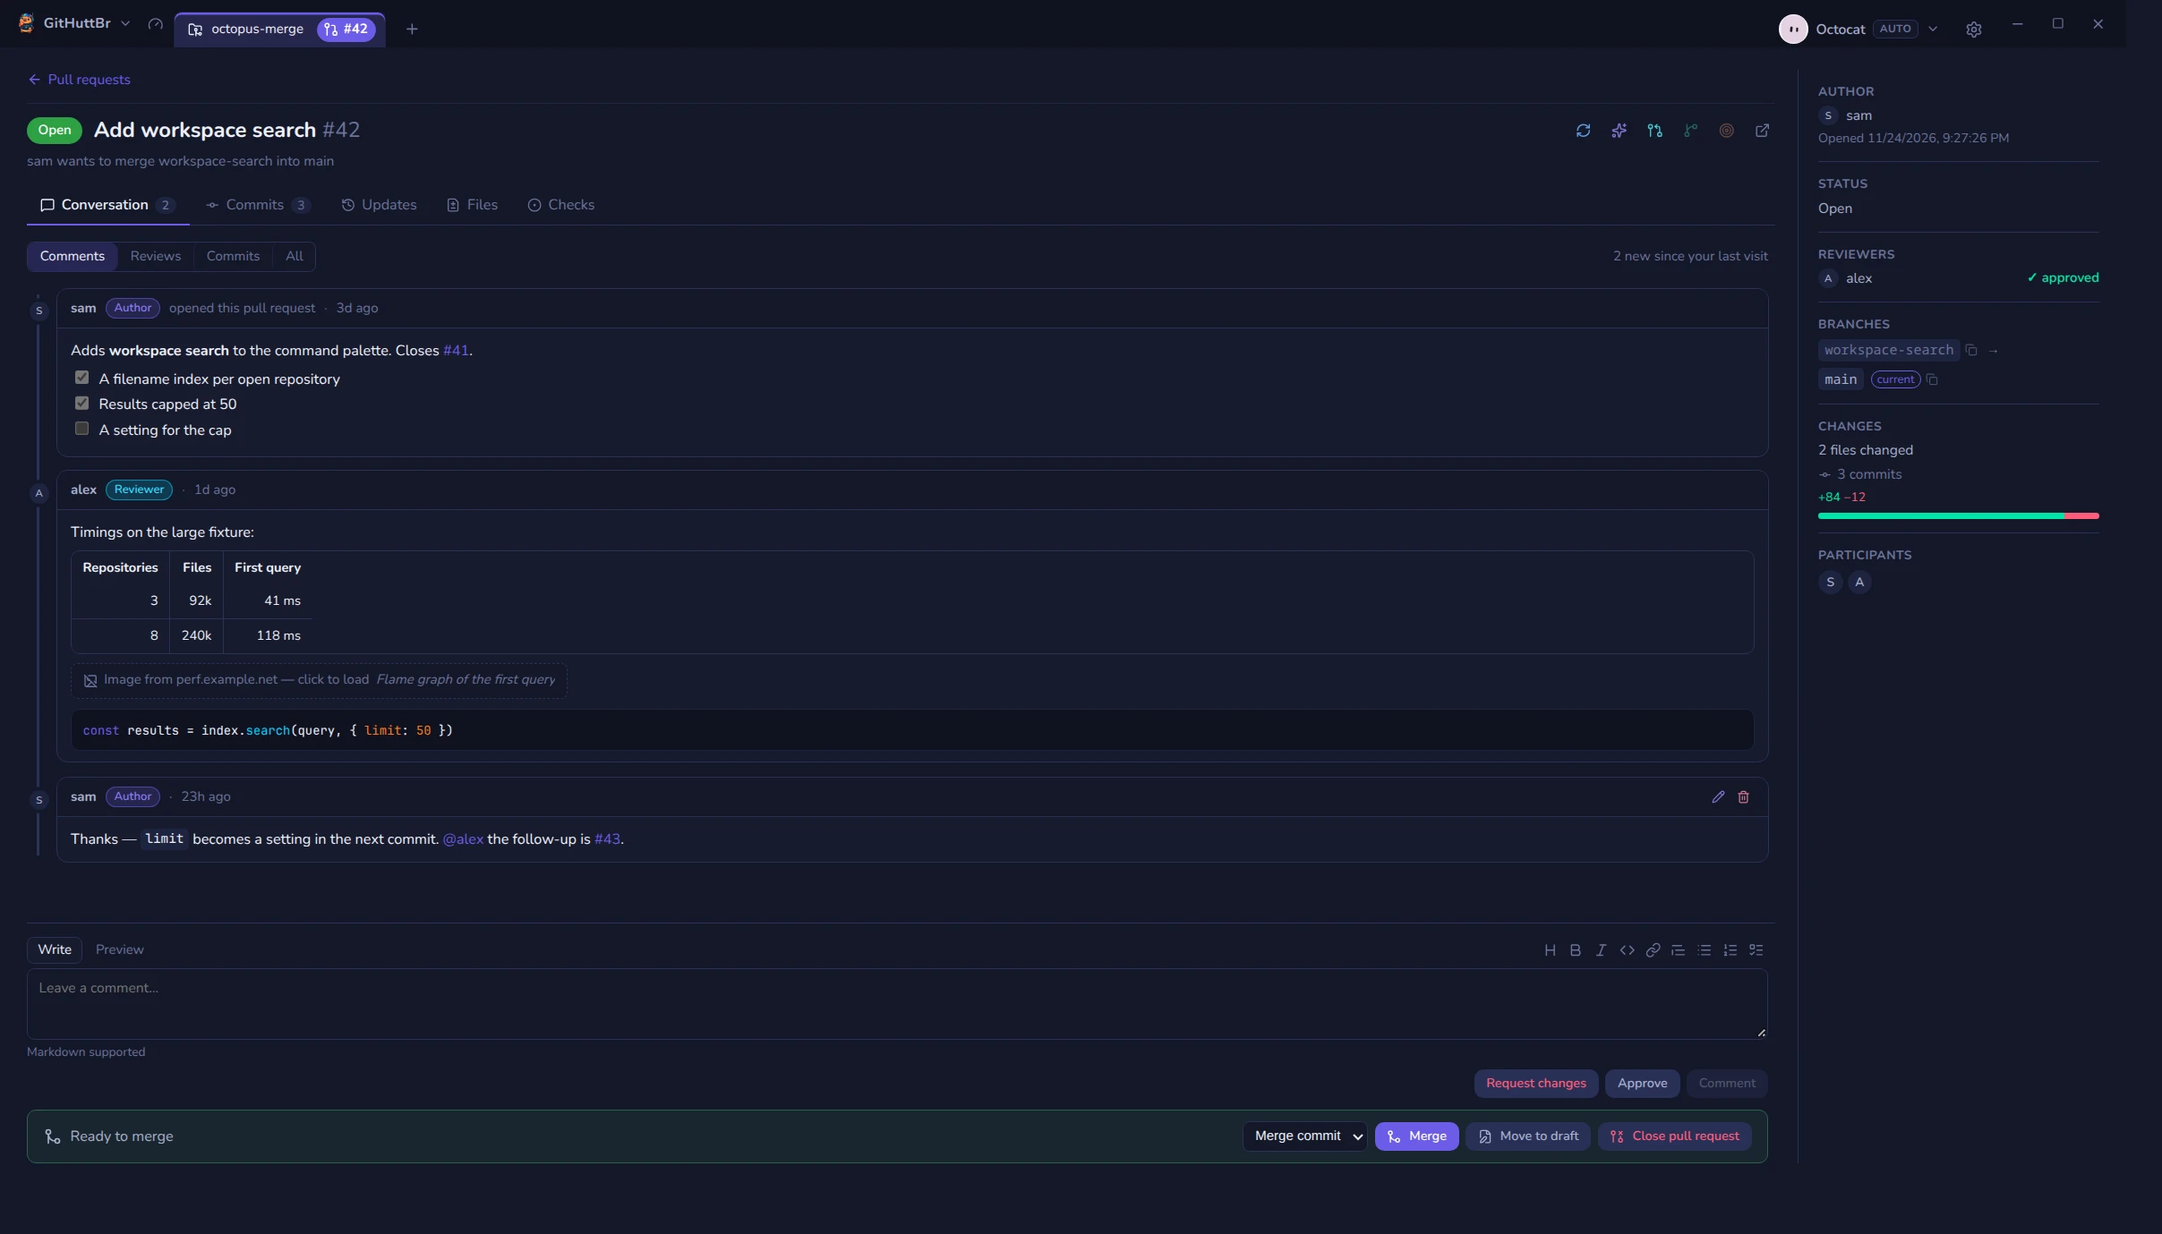
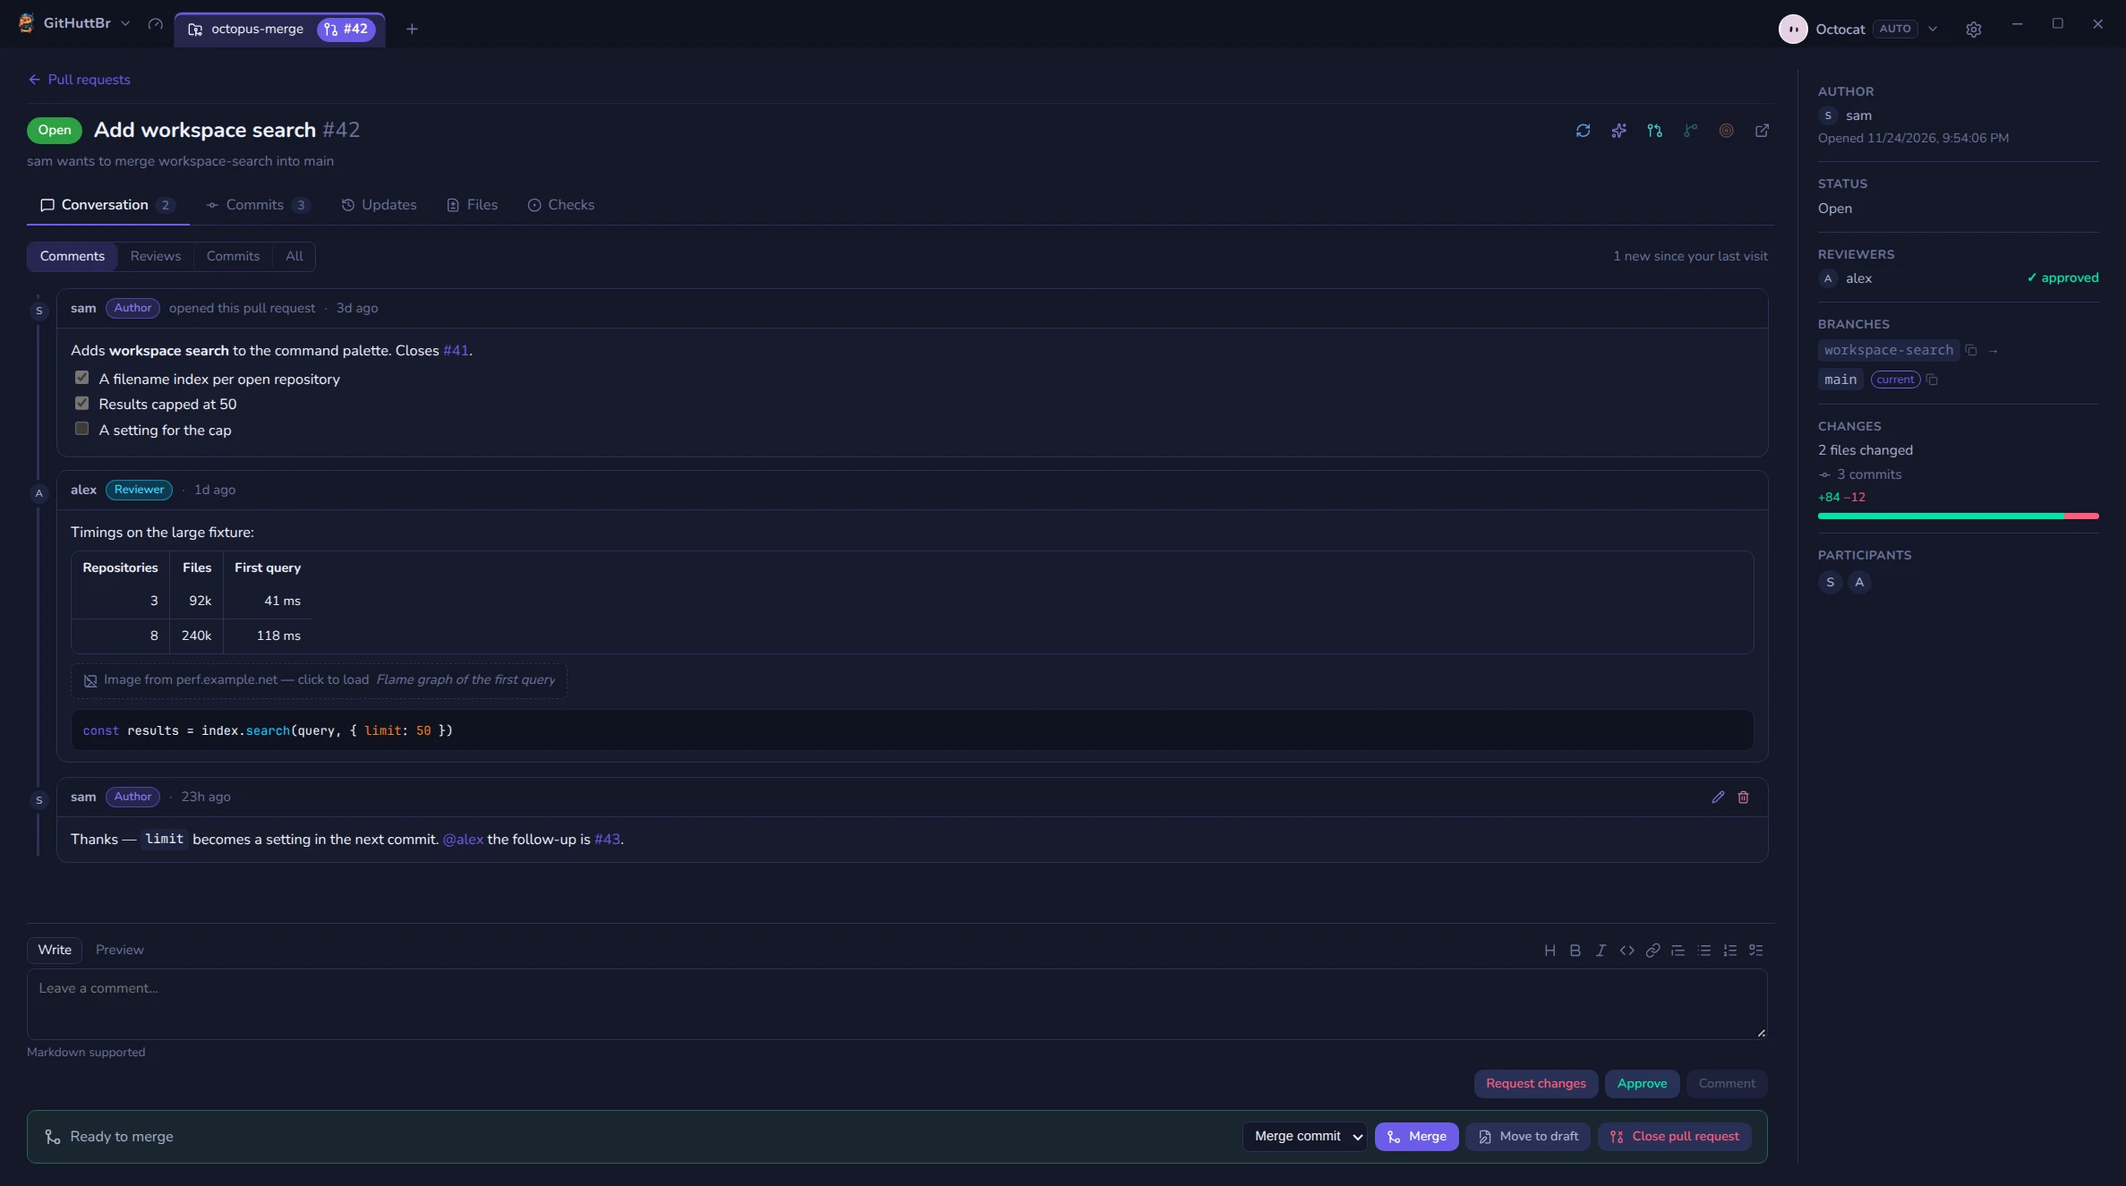
fix(pr): visit kept on quit, own entries not new, green approve, way back
- The last visit of a PR open when the app quits or reloads is recorded: the
  page records it on beforeunload, the settings store sends a pending save at
  once as the page goes, and main holds the quit (3s at most) for the write.
- "N new since your last visit" leaves out what you wrote and does not place
  the line by it; an older thread with a reply from someone else since counts
  as new, and keeps its place on the timeline.
- The composer's Approve is in green words, as Request changes is in red.
- "← Pull requests" from a PR hands back the list's `from: 'mission'`, so
  "← Back to Mission control" stays.

diff --git a/src/renderer/src/lib/prTimeline.ts b/src/renderer/src/lib/prTimeline.ts
@@ -1,4 +1,5 @@
 import type { PrComment, PrCommit, PrDetail, PrReview, PrReviewThread } from '../../../shared/types'
+import { isWrittenByViewer, type CommentViewer } from './commentEdit'
 
 /**
  * The Conversation tab as one timeline: what goes on it, in which order, and
@@ -98,6 +99,57 @@ export function buildPrTimeline(
   // Array.prototype.sort is stable: equal times keep the order above.
   items.sort((a, b) => a.at - b.at)
   return [{ kind: 'description', id: 'description', at: parseTime(pr.createdAt) }, ...items]
+}
+
+/** Who wrote a timeline entry; a thread is its first comment's, a push its committer's. */
+function getEntryAuthor(it: PrTimelineItem, prAuthor: string): { author: string; authorId?: string; authorUniqueName?: string } {
+  switch (it.kind) {
+    case 'comment':
+      return it.comment
+    case 'thread':
+      return it.thread.comments[0] ?? { author: '' }
+    case 'review':
+      return it.review
+    case 'push':
+      return { author: it.author }
+    default:
+      return { author: prAuthor }
+  }
+}
+
+/**
+ * "New since your last visit" on the Conversation tab, over the entries shown.
+ *
+ * - `seen` / `fresh`: where the divider goes — before the first entry after the
+ *   visit that someone else wrote. Entries keep their places: your own reply
+ *   after it stays under the divider, it just does not move it.
+ * - `freshCount`: what the summary says — entries after the visit not written
+ *   by you, plus threads that began earlier but got a reply from someone else
+ *   since. Such a thread stays where it began; only the count sees the reply.
+ *
+ * No last visit (a first look) is "nothing new", as in lib/prVisits.ts.
+ */
+export function splitPrTimelineByVisit(
+  items: readonly PrTimelineItem[],
+  lastVisit: number | null,
+  who: CommentViewer & { author: string }
+): { seen: PrTimelineItem[]; fresh: PrTimelineItem[]; freshCount: number } {
+  if (lastVisit === null) return { seen: [...items], fresh: [], freshCount: 0 }
+  const others = (entry: { author: string; authorId?: string; authorUniqueName?: string }): boolean =>
+    !isWrittenByViewer(entry, who)
+  const isNewByOthers = (it: PrTimelineItem): boolean => it.at > lastVisit && others(getEntryAuthor(it, who.author))
+  const firstFresh = items.findIndex(isNewByOthers)
+  const cut = firstFresh < 0 ? items.length : firstFresh
+  let freshCount = 0
+  for (const it of items) {
+    if (isNewByOthers(it)) freshCount++
+    else if (
+      it.kind === 'thread' &&
+      it.thread.comments.some((c) => parseTime(c.createdAt) > lastVisit && others(c))
+    )
+      freshCount++
+  }
+  return { seen: items.slice(0, cut), fresh: items.slice(cut), freshCount }
 }
 
 /** A thread the host says is still open. Unknown (no `resolved`) is not open. */

diff --git a/test/prTimeline.test.ts b/test/prTimeline.test.ts
@@ -12,7 +12,8 @@ import {
   filterPrTimeline,
   getHunkLines,
   getPrPersonRoles,
-  groupPrCommitPushes
+  groupPrCommitPushes,
+  splitPrTimelineByVisit
 } from '../src/renderer/src/lib/prTimeline'
 import {
   getLastVisit,
@@ -181,6 +182,43 @@ describe('prVisits', () => {
     const items = [{ at: 1 }, { at: 5 }, { at: 9 }]
     expect(splitByLastVisit(items, 5)).toEqual({ seen: [{ at: 1 }, { at: 5 }], fresh: [{ at: 9 }] })
     expect(splitByLastVisit(items, null)).toEqual({ seen: items, fresh: [] })
+  })
+
+  it('leaves your own entries out of "new", and counts an old thread with a new reply', () => {
+    const visit = Date.parse('2026-11-05T00:00:00Z')
+    const reply = (id: number, author: string, at: string): PrReviewThread['comments'][number] => ({
+      id, author, body: 'ok', createdAt: at
+    })
+    const oldThread: PrReviewThread = {
+      ...thread(7, '2026-11-02T10:00:00Z'),
+      comments: [reply(7, 'kalani', '2026-11-02T10:00:00Z'), reply(8, 'kalani', '2026-11-06T10:00:00Z')]
+    }
+    // Answered since, but only by you: nothing new.
+    const mineAnswered: PrReviewThread = {
+      ...thread(9, '2026-11-03T10:00:00Z'),
+      comments: [reply(9, 'kalani', '2026-11-03T10:00:00Z'), reply(10, 'me', '2026-11-06T11:00:00Z')]
+    }
+    const detail = pr({
+      viewer: 'me',
+      comments: [
+        { author: 'me', body: 'mine, after the visit', createdAt: '2026-11-06T09:00:00Z' },
+        { author: 'alex', body: 'theirs, after', createdAt: '2026-11-06T12:00:00Z' }
+      ],
+      reviewThreads: [oldThread, mineAnswered]
+    })
+    const items = buildPrTimeline(detail, null)
+    const split = splitPrTimelineByVisit(items, visit, detail)
+    // alex's comment, and the old thread for kalani's reply — not your own comment.
+    expect(split.freshCount).toBe(2)
+    // The divider sits before alex's comment, not before yours; your comment stays above it.
+    expect(split.fresh.map((it) => it.id)).toEqual([items[items.length - 1].id])
+    expect(split.seen.some((it) => it.kind === 'comment' && it.comment.author === 'me')).toBe(true)
+    // The old thread keeps its place, where it began.
+    expect(split.seen.map((it) => it.id)).toContain('t:7')
+    // A first visit: nothing new.
+    expect(splitPrTimelineByVisit(items, null, detail)).toMatchObject({ fresh: [], freshCount: 0 })
+    // Without knowing who you are, your comment counts like anyone's.
+    expect(splitPrTimelineByVisit(items, visit, { ...detail, viewer: null }).freshCount).toBe(4)
   })
 
   it('keeps only the most recent visits and ignores unreadable ones', () => {

diff --git a/test/prListMissionBack.test.ts b/test/prListMissionBack.test.ts
@@ -1,0 +1,31 @@
+import { beforeAll, describe, expect, it, vi } from 'vitest'
+
+vi.mock('../src/renderer/src/infrastructure/api', () => ({
+  settingsApi: { set: vi.fn(async () => undefined) },
+  reposApi: {},
+  hostingApi: {}
+}))
+
+import { useSettingsStore } from '../src/renderer/src/stores/settings'
+import { openPrFromList } from '../src/renderer/src/stores/prList'
+
+// The pull requests list opened from Mission Control offers the way back there;
+// going into one of its PRs and back with "← Pull requests" must not lose it.
+describe('a PR opened from a list that came from Mission Control', () => {
+  beforeAll(() => useSettingsStore.setState({ loaded: true }))
+
+  it('carries where the list came from, and keeps it on the PR pages it walks to', () => {
+    useSettingsStore.getState().update((s) => ({ ...s, workspaces: [], tabs: [], activeTabId: null }))
+    const entry = { number: 7, title: 'Add search', remoteUrl: 'https://example.com/team/app.git' }
+    const nav = { entries: [entry], filters: {} as never, tab: 'open' as never }
+    openPrFromList('/repos/app', entry, nav, 'mission')
+    const pages = useSettingsStore.getState().settings.tabs.flatMap((t) => (t.kind === 'page' ? [t.page] : []))
+    expect(pages.find((p) => p.type === 'pr')).toMatchObject({ number: 7, via: 'list', listFrom: 'mission' })
+
+    // Opened from the plain list: no flag to hand back.
+    openPrFromList('/repos/app', { ...entry, number: 8 }, nav)
+    const after = useSettingsStore.getState().settings.tabs.flatMap((t) => (t.kind === 'page' ? [t.page] : []))
+    const pr8 = after.find((p) => p.type === 'pr' && p.number === 8)
+    expect(pr8 && 'listFrom' in pr8).toBe(false)
+  })
+})

diff --git a/src/renderer/src/components/PrConversationTimeline.tsx b/src/renderer/src/components/PrConversationTimeline.tsx
@@ -4,7 +4,6 @@ import type { PrComment, PrCommit, PrDetail, PrReview, PrReviewThread } from '..
 import { HostUserAvatar as Avatar } from './HostUserAvatar'
 import { useT, interp, type TranslationKey } from '../i18n'
 import { timeAgo } from '../lib/timeAgo'
-import { splitByLastVisit } from '../lib/prVisits'
 import type { ReviewerState } from '../lib/prSummary'
 import {
   buildPrTimeline,
@@ -12,6 +11,7 @@ import {
   filterPrTimeline,
   getHunkLines,
   getPrPersonRoles,
+  splitPrTimelineByVisit,
   type PrTimelineFilter,
   type PrTimelineItem
 } from '../lib/prTimeline'
@@ -105,9 +105,10 @@ export function PrConversationTimeline({
   const [expanded, setExpanded] = useState<Set<string>>(() => new Set())
 
   const items = useMemo(() => buildPrTimeline(pr, commits), [pr, commits])
-  const freshCount = useMemo(() => splitByLastVisit(items, lastVisit).fresh.length, [items, lastVisit])
+  // What you wrote yourself is never "new" to you (lib/prTimeline.ts).
+  const freshCount = useMemo(() => splitPrTimelineByVisit(items, lastVisit, pr).freshCount, [items, lastVisit, pr])
   const shown = useMemo(() => filterPrTimeline(items, filter, openOnly), [items, filter, openOnly])
-  const { seen, fresh } = useMemo(() => splitByLastVisit(shown, lastVisit), [shown, lastVisit])
+  const { seen, fresh } = useMemo(() => splitPrTimelineByVisit(shown, lastVisit, pr), [shown, lastVisit, pr])
   const openThreads = countOpenThreads(pr.reviewThreads)
 
   const name = (login: string): ReactNode => {

diff --git a/test/settingsStoreSaves.test.ts b/test/settingsStoreSaves.test.ts
@@ -30,7 +30,7 @@ vi.mock('../src/renderer/src/infrastructure/api', () => ({
   }
 }))
 
-import { useSettingsStore } from '../src/renderer/src/stores/settings'
+import { sendPendingSettingsSave, useSettingsStore } from '../src/renderer/src/stores/settings'
 import { useUIStore } from '../src/renderer/src/stores/ui'
 import { SettingsSaveRefused } from '../src/renderer/src/infrastructure/api'
 
@@ -56,6 +56,21 @@ describe('the settings store', () => {
     expect(saves()).toHaveLength(1)
     expect(saves()[0].settings).toMatchObject({ language: 'de', confirmForcePush: false })
     expect(saves()[0].generation).toBe(gen)
+  })
+
+  it('a page going away sends the pending save at once, not after the debounce', async () => {
+    useSettingsStore.getState().update((s) => ({ ...s, prVisits: { 'https://example.com/o/r#7': 1234 } }))
+    expect(saves()).toHaveLength(0)
+    // Called from beforeunload: no timer gets to fire after it.
+    sendPendingSettingsSave()
+    expect(saves()).toHaveLength(1)
+    expect(saves()[0].settings?.prVisits).toEqual({ 'https://example.com/o/r#7': 1234 })
+    // The debounce is spent: nothing goes out twice.
+    await vi.advanceTimersByTimeAsync(300)
+    expect(saves()).toHaveLength(1)
+    // Nothing pending, nothing sent.
+    sendPendingSettingsSave()
+    expect(saves()).toHaveLength(1)
   })
 
   it('a pending save goes out before an unlock, never after it with the older state', async () => {

diff --git a/src/main/index.ts b/src/main/index.ts
@@ -12,7 +12,7 @@ import type { AppRelease } from '../shared/types'
 import { getUrlScheme, isAppNavigation } from '../shared/externalUrl'
 import { openExternalUrl } from './externalLinks'
 import { abortAllClones, registerGitHandlers, repointGlobalLegacyTextconvs } from './git'
-import { readSettings, registerSettingsHandlers } from './settings'
+import { readSettings, registerSettingsHandlers, waitForSettingsWrites } from './settings'
 import { registerAiHandlers } from './ai'
 import { registerRepoChatHandlers } from './repoChat'
 import { registerWikiHandlers } from './wiki'
@@ -573,6 +573,18 @@ app.whenReady().then(() => {
 app.on('before-quit', () => {
   void releaseAllWaits()
   abortAllClones()
+})
+
+// A closing window sends its last settings save as it goes (a pull request's
+// visit): hold the quit until that write lands, a few seconds at most. The
+// tick first lets the message that left with the window reach its handler.
+let settingsWritten = false
+app.on('will-quit', (e) => {
+  if (settingsWritten) return
+  e.preventDefault()
+  settingsWritten = true
+  const writes = new Promise<void>((done) => setImmediate(done)).then(() => waitForSettingsWrites())
+  void Promise.race([writes, new Promise<void>((done) => setTimeout(done, 3000))]).finally(() => app.quit())
 })
 
 app.on('window-all-closed', () => {

diff --git a/src/renderer/src/components/PrDetailPage.tsx b/src/renderer/src/components/PrDetailPage.tsx
@@ -48,7 +48,7 @@ import { PrUpdatesSection, usePrUpdates, usePrUpdatesSeen } from './PrUpdatesSec
 import { PrUpdateDiffBanner, usePrUpdateDiff, type UpdateDiffView } from './PrUpdateDiff'
 import { forgetFinished } from '../stores/prList'
 import { useUIStore } from '../stores/ui'
-import { useSettingsStore } from '../stores/settings'
+import { sendPendingSettingsSave, useSettingsStore } from '../stores/settings'
 import { repoActions, useRepoStore } from '../stores/repo'
 import { remoteForPrUrl } from '../lib/prBranchGo'
 import { remoteWebUrl, type AutolinkOptions } from '../lib/autolink'
@@ -621,7 +621,17 @@ export function PrDetailPage({ page }: { page: PrPage }): React.JSX.Element {
   const visited = useRef(false)
   useEffect(() => {
     visited.current = false
+    // Quitting or reloading with the page open unmounts nothing: the visit is
+    // recorded as the window goes too, and sent at once (stores/settings.ts).
+    const leave = (): void => {
+      if (!visited.current) return
+      visited.current = false
+      recordVisit(visitKey, Date.now())
+      sendPendingSettingsSave()
+    }
+    window.addEventListener('beforeunload', leave)
     return () => {
+      window.removeEventListener('beforeunload', leave)
       if (visited.current) recordVisit(visitKey, Date.now())
     }
   }, [visitKey])

diff --git a/src/renderer/src/stores/prList.ts b/src/renderer/src/stores/prList.ts
@@ -106,10 +106,19 @@ export function currentPrNav(page: PrPage): ReturnType<typeof resolvePrNav> {
 }
 
 /** Open a PR from the list page: the walk is remembered, and the PR replaces
- *  the one the list opened before rather than adding an icon per click. */
-export function openPrFromList(repoPath: string, entry: PrNavEntry, nav: PrListNav): void {
+ *  the one the list opened before rather than adding an icon per click.
+ *  `listFrom` is where the list itself came from, handed back on the way back. */
+export function openPrFromList(repoPath: string, entry: PrNavEntry, nav: PrListNav, listFrom?: 'mission'): void {
   usePrListStore.getState().rememberNav(repoPath, nav)
-  const page: PrPage = { type: 'pr', repoPath, remoteUrl: entry.remoteUrl, number: entry.number, title: entry.title, via: 'list' }
+  const page: PrPage = {
+    type: 'pr',
+    repoPath,
+    remoteUrl: entry.remoteUrl,
+    number: entry.number,
+    title: entry.title,
+    via: 'list',
+    ...(listFrom ? { listFrom } : {})
+  }
   const settings = useSettingsStore.getState()
   const previous = findListPrPage(repoPath)
   if (previous) settings.replaceOpenPage(previous, page)

diff --git a/src/renderer/src/stores/settings.ts b/src/renderer/src/stores/settings.ts
@@ -292,6 +292,23 @@ async function flushPending(): Promise<void> {
   await inFlight
 }
 
+/**
+ * Sends a pending debounced save at once, without waiting for it: what a page
+ * that is going away can still do. Quitting or reloading inside the 250ms lost
+ * the last change — a pull request's visit, recorded as its page is left. The
+ * IPC message leaves before the page is torn down, and main waits for the
+ * write before it quits (`waitForSettingsWrites`).
+ */
+export function sendPendingSettingsSave(): void {
+  if (!saveTimer) return
+  void flushPending()
+}
+
+// Guarded on the function: tests stub a `window` without it.
+if (typeof window !== 'undefined' && typeof window.addEventListener === 'function') {
+  window.addEventListener('beforeunload', sendPendingSettingsSave)
+}
+
 /** Mirror the live `tabs`/`activeTabId` into the active workspace record so a
  *  workspace switch (or the next app launch) restores the exact tab strip.
  *  Runs on every settings mutation — cheap, and keeps the two in lockstep

diff --git a/src/renderer/src/lib/commentEdit.ts b/src/renderer/src/lib/commentEdit.ts
@@ -39,7 +39,18 @@ export function isMyComment(
   comment: { author: string; authorId?: string; authorUniqueName?: string; handle?: PrCommentHandle },
   who: CommentViewer | null | undefined
 ): boolean {
-  if (!comment.handle || !who) return false
+  return !!comment.handle && isWrittenByViewer(comment, who)
+}
+
+/**
+ * The viewer wrote this entry — isMyComment's matching without the handle it
+ * needs to offer actions: what "N new since your last visit" leaves out.
+ */
+export function isWrittenByViewer(
+  comment: { author: string; authorId?: string; authorUniqueName?: string },
+  who: CommentViewer | null | undefined
+): boolean {
+  if (!who) return false
   // A blank name names nobody: only a real one on both sides may match.
   const author = comment.authorUniqueName?.trim()
   const viewer = who.viewerUniqueName?.trim()

diff --git a/src/shared/types.ts b/src/shared/types.ts
@@ -4021,7 +4021,10 @@ export type PageContent =
   // page has loaded the real one.
   // `via: 'list'` — opened from the pull requests page, so its ‹ › walk the
   // filtered list it came from rather than the repository's open PRs.
-  | { type: 'pr'; repoPath: string; remoteUrl: string; number: number; title: string; via?: 'list' }
+  // `listFrom: 'mission'` — that list was opened from Mission Control: its
+  // "← Pull requests" takes the flag back, so the list keeps its way back there.
+  | { type: 'pr'; repoPath: string; remoteUrl: string; number: number; title: string; via?: 'list'
+      listFrom?: 'mission' }
   // `from: 'mission'` — opened from Mission Control, so the page offers the way back.
   | { type: 'pull-requests'; repoPath: string; from?: 'mission' }
 

diff --git a/src/main/settings.ts b/src/main/settings.ts
@@ -141,6 +141,13 @@ let pendingClears: SecretView = new Map()
  * unlock installing what it read — lost one of them.
  */
 let secretsChain: Promise<unknown> = Promise.resolve()
+/** Resolves once every save queued so far has been written (or has failed):
+ *  the app waits for it before quitting, so the save a closing window sent
+ *  as it went is not cut off. */
+export function waitForSettingsWrites(): Promise<void> {
+  return secretsChain.then(() => undefined)
+}
+
 function exclusive<T>(fn: () => Promise<T>): Promise<T> {
   const run = secretsChain.then(fn, fn)
   secretsChain = run.catch(() => undefined)
